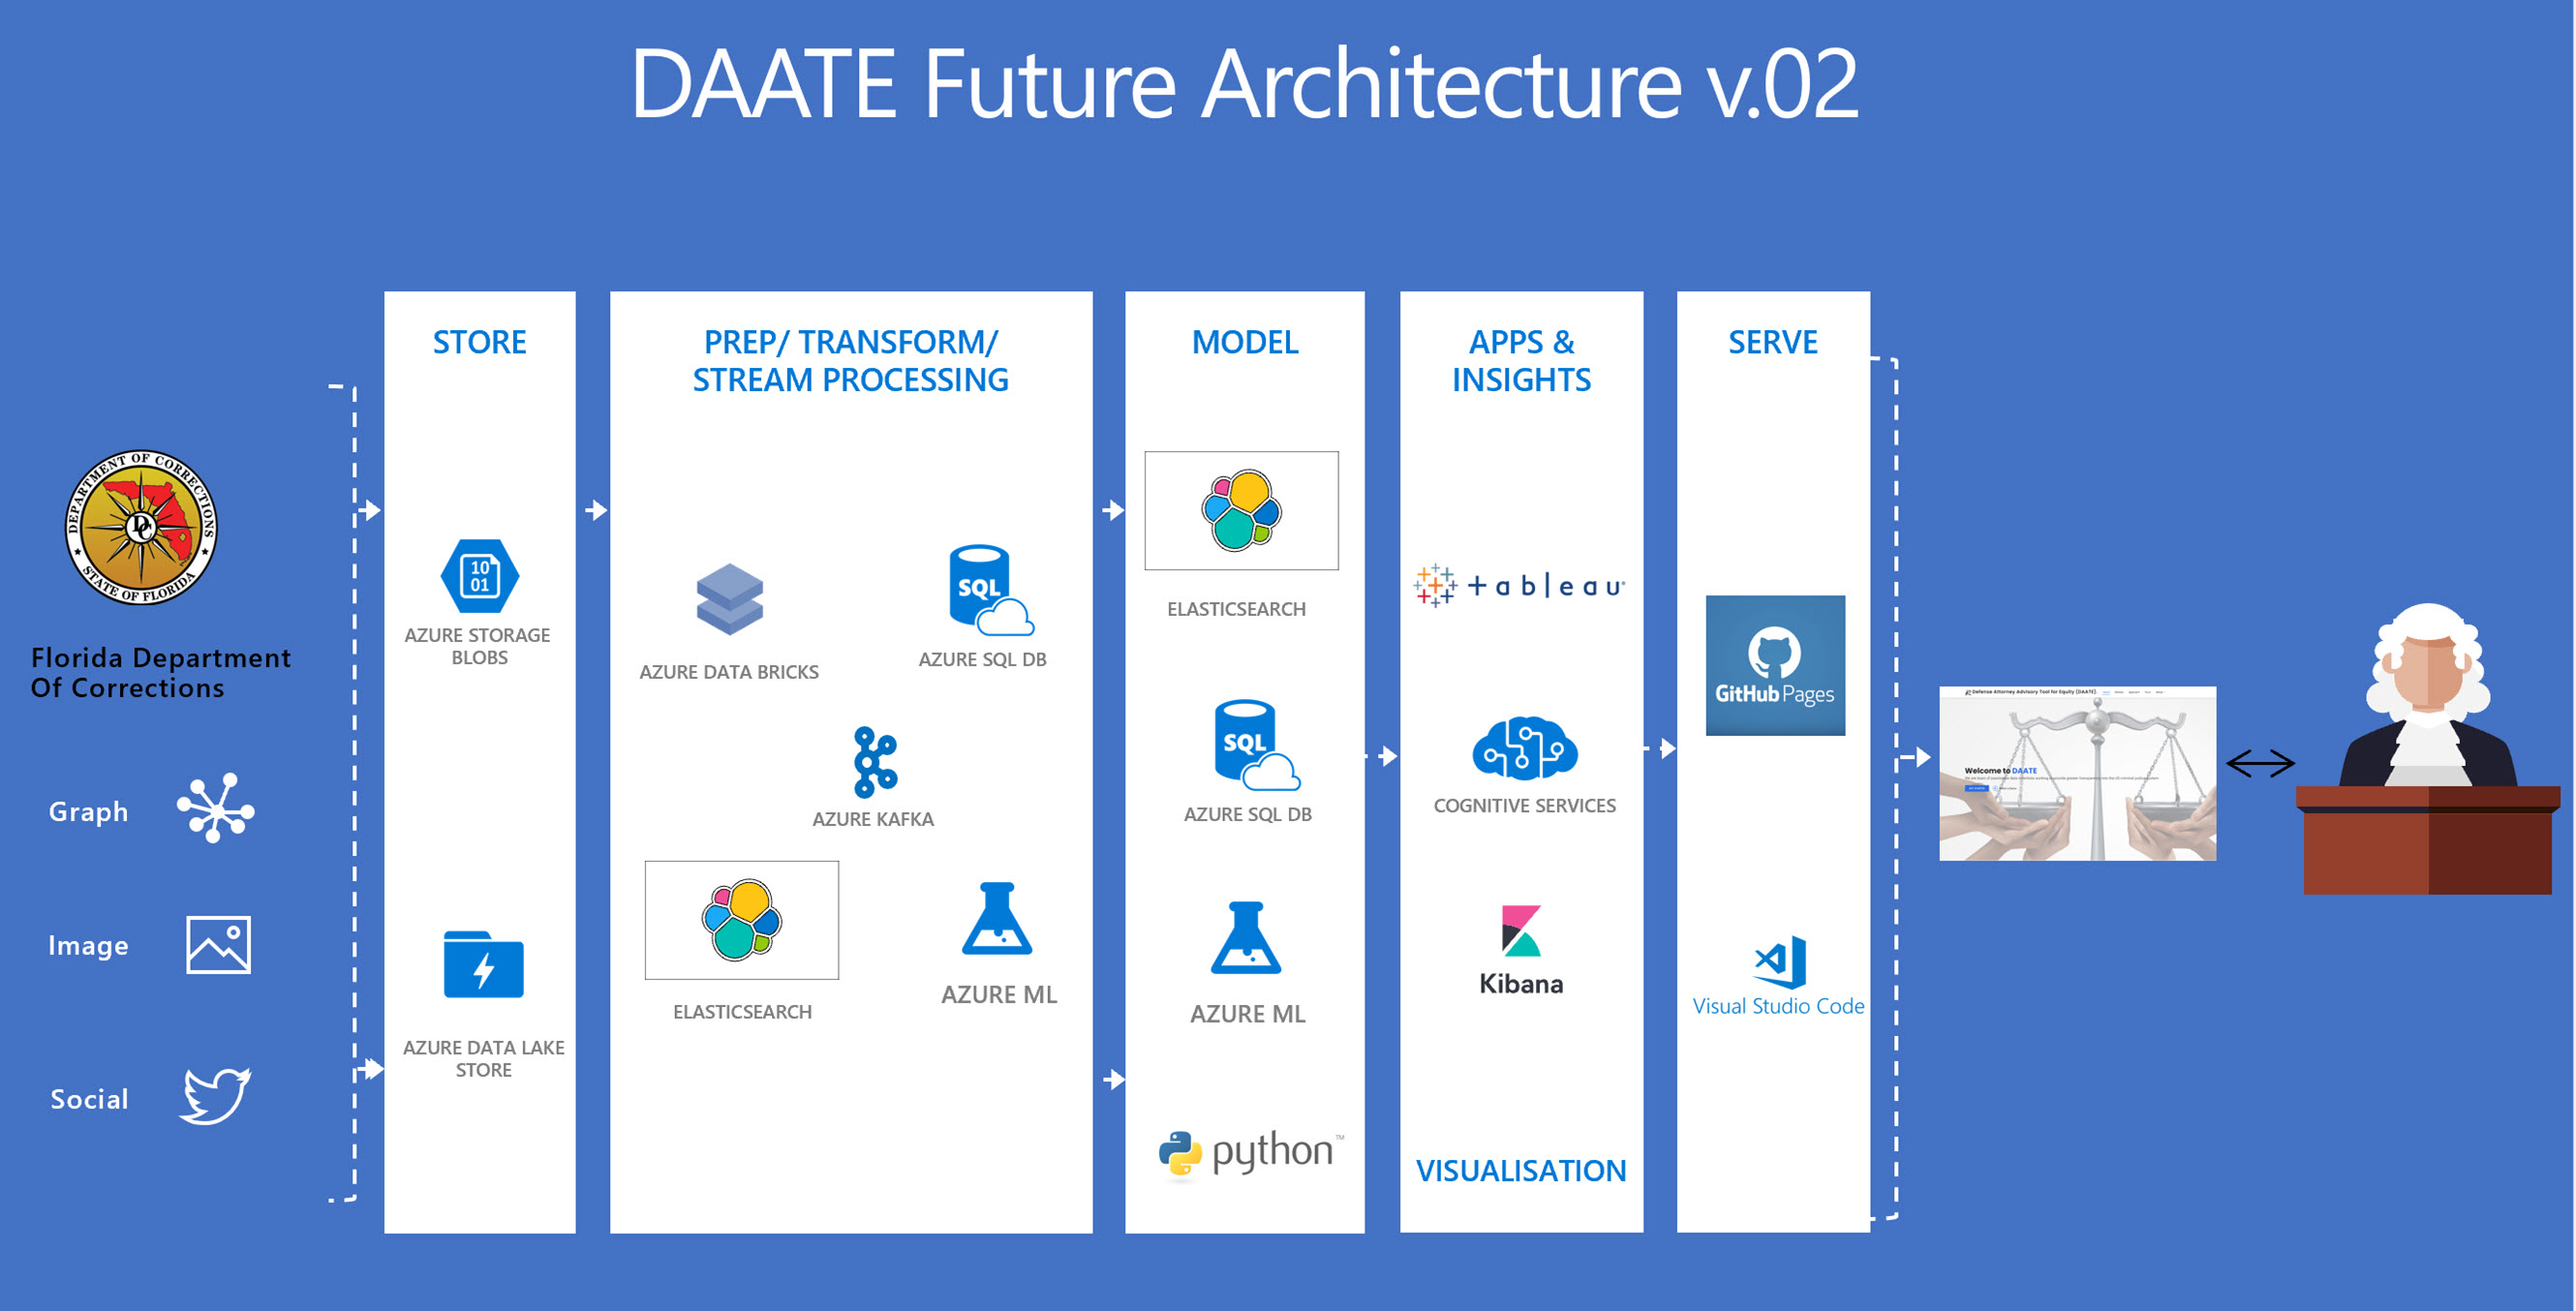
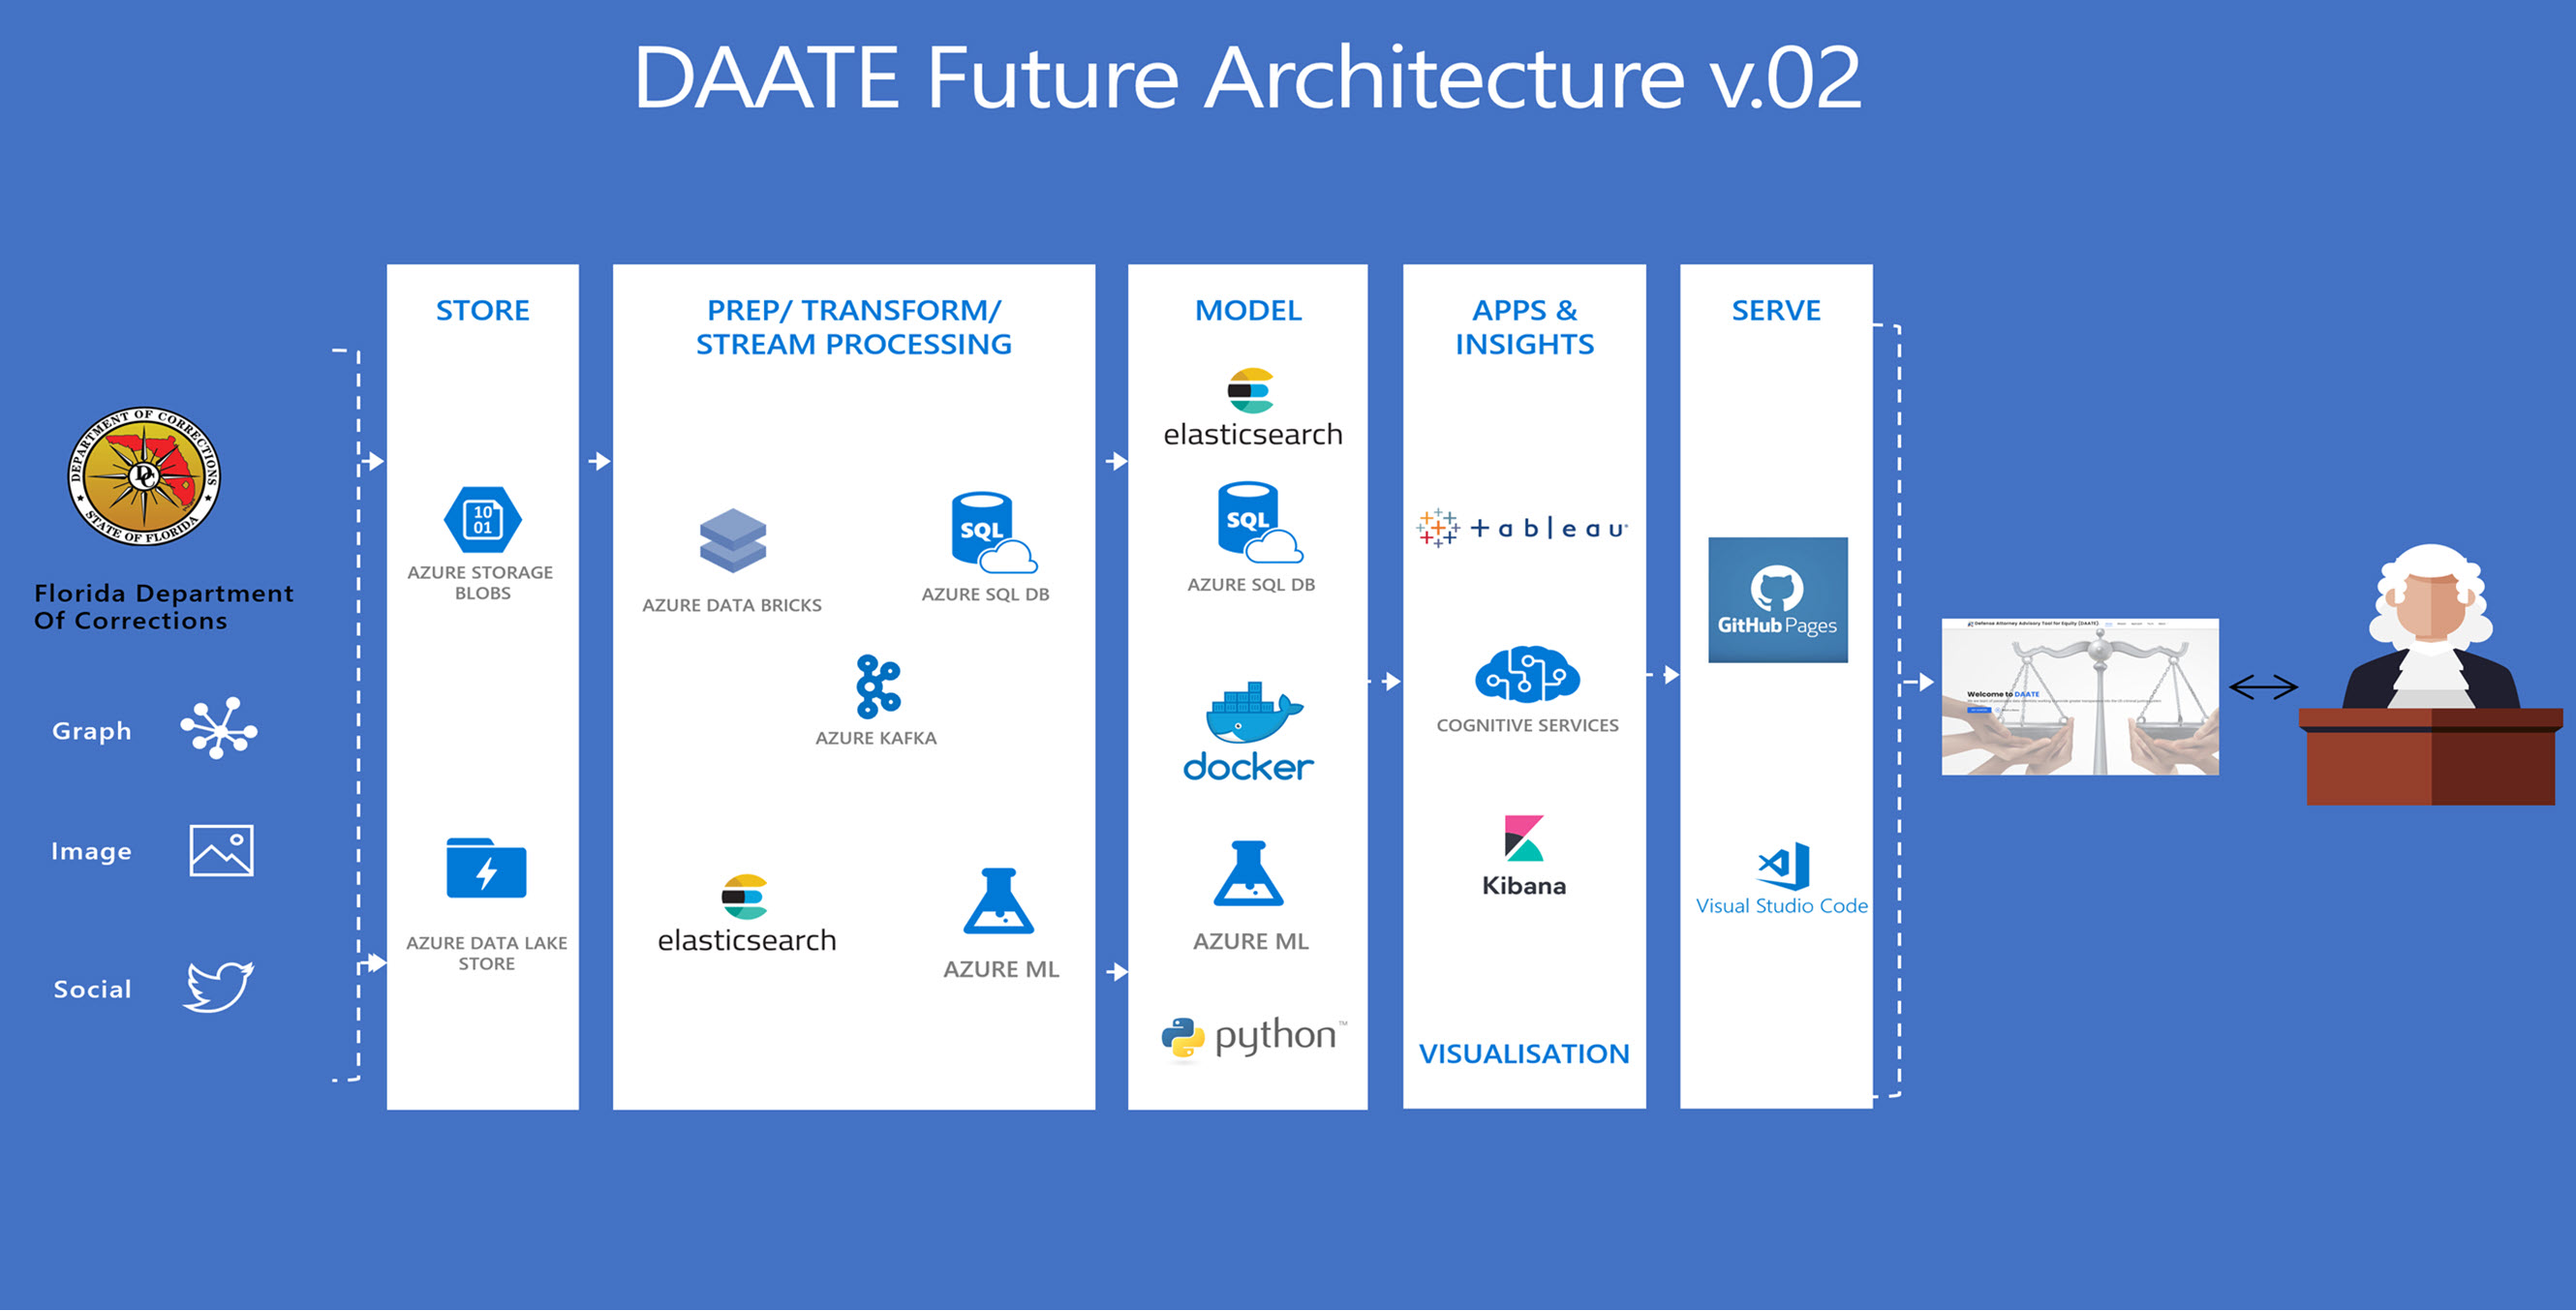
updated images, fixed references

diff --git a/index.html b/index.html
@@ -315,9 +315,9 @@
           <div class="col-lg-4 col-md-6 portfolio-item filter-arch">
             <img src="assets/img/portfolio/MVPArch.jpg" class="img-fluid" alt="">
             <div class="portfolio-info">
-              <h4>DAATE MVP Architecture (v0.01)</h4>
+              <h4>MVP Architecture (v0.01)</h4>
               <p>A highlevel overview of the DAATE MVP architecture. </p>
-              <a href="assets/img/portfolio/MVPArch.jpg" data-gallery="portfolioGallery" class="portfolio-lightbox preview-link" title="Zoom In DAATE Architecture"><i class="bx bx-plus"></i></a>
+              <a href="assets/img/portfolio/MVPArch.jpg" data-gallery="portfolioGallery" class="portfolio-lightbox preview-link" title="DAATE Architecture"><i class="bx bx-plus"></i></a>
               <a href="arch-details.html" class="details-link" title="More Details"><i class="bx bx-link"></i></a>
             </div>
           </div>
@@ -325,9 +325,9 @@
           <div class="col-lg-4 col-md-6 portfolio-item filter-model">
             <img src="assets/img/portfolio/predmodel.jpg" class="img-fluid" alt="">
             <div class="portfolio-info">
-              <h4>Model Architecture</h4>
-              <p>An overview of the DAATE MVP model architecture</p>
-              <a href="assets/img/portfolio/predmodel.jpg" data-gallery="portfolioGallery" class="portfolio-lightbox preview-link" title="Web 3"><i class="bx bx-plus"></i></a>
+              <h4>Predictive Model Architecture</h4>
+              <p>An overview of the DAATE MVP predictive model architecture</p>
+              <a href="assets/img/portfolio/predmodel.jpg" data-gallery="portfolioGallery" class="portfolio-lightbox preview-link" title="Predictive Model Architecture"><i class="bx bx-plus"></i></a>
               <a href="model-details.html" class="details-link" title="More Details"><i class="bx bx-link"></i></a>
             </div>
           </div>
@@ -337,17 +337,18 @@
             <div class="portfolio-info">
               <h4>Data used in DAATE</h4>
               <p>A glimpse at the Florida Department of Corrections data</p>
-              <a href="assets/img/portfolio/DataOverview.jpg" data-gallery="portfolioGallery" class="portfolio-lightbox preview-link" title="App 2"><i class="bx bx-plus"></i></a>
+              <a href="assets/img/portfolio/DataOverview.jpg" data-gallery="portfolioGallery" class="portfolio-lightbox preview-link" title="DAATE MVP Data"><i class="bx bx-plus"></i></a>
               <a href="data-details.html" class="details-link" title="More Details"><i class="bx bx-link"></i></a>
             </div>
           </div>
 
+          
           <div class="col-lg-4 col-md-6 portfolio-item filter-arch">
             <img src="assets/img/portfolio/WebArch.jpg" class="img-fluid" alt="">
             <div class="portfolio-info">
-              <h4>DAATE Future Architecture (v0.02)</h4>
-              <p>A high-level overview of the a potential DAATE future architecture  (v.02).</p>
-              <a href="assets/img/portfolio/WebArch.jpg" data-gallery="portfolioGallery" class="portfolio-lightbox preview-link" title="App 1"><i class="bx bx-plus"></i></a>
+              <h4>MVP Web Site</h4>
+              <p>A glimpse of the DAATE MVP web site.</p>
+              <a href="assets/img/portfolio/WebArch.jpg" data-gallery="portfolioGallery" class="portfolio-lightbox preview-link" title="MVP web site"><i class="bx bx-plus"></i></a>
               <a href="arch-details.html" class="details-link" title="More Details"><i class="bx bx-link"></i></a>
             </div>
           </div>
@@ -356,9 +357,9 @@
           <div class="col-lg-4 col-md-6 portfolio-item filter-data">
             <img src="assets/img/portfolio/DataEDAOutliers.jpg" class="img-fluid" alt="">
             <div class="portfolio-info">
-              <h4>DAATE Data</h4>
+              <h4>EDA Outliers</h4>
               <p>An overview of outliers found in the data</p>
-              <a href="assets/img/portfolio/DataEDAOutliers.jpg" data-gallery="portfolioGallery" class="portfolio-lightbox preview-link" title="Web 2"><i class="bx bx-plus"></i></a>
+              <a href="assets/img/portfolio/DataEDAOutliers.jpg" data-gallery="portfolioGallery" class="portfolio-lightbox preview-link" title="EDA - Outliers"><i class="bx bx-plus"></i></a>
               <a href="data-details.html" class="details-link" title="More Details"><i class="bx bx-link"></i></a>
             </div>
           </div>
@@ -366,9 +367,9 @@
           <div class="col-lg-4 col-md-6 portfolio-item filter-arch">
             <img src="assets/img/portfolio/FutureArch.jpg" class="img-fluid" alt="">
             <div class="portfolio-info">
-              <h4>DAATE Future Architecture</h4>
+              <h4>Future Architecture</h4>
               <p>A glimpse into potential DAATE architecture</p>
-              <a href="assets/img/portfolio/FutureArch.jpg" data-gallery="portfolioGallery" class="portfolio-lightbox preview-link" title="App 3"><i class="bx bx-plus"></i></a>
+              <a href="assets/img/portfolio/FutureArch.jpg" data-gallery="portfolioGallery" class="portfolio-lightbox preview-link" title="DAATE Future Architecture"><i class="bx bx-plus"></i></a>
               <a href="arch-details.html" class="details-link" title="More Details"><i class="bx bx-link"></i></a>
             </div>
           </div>
@@ -376,9 +377,9 @@
           <div class="col-lg-4 col-md-6 portfolio-item filter-data">
             <img src="assets/img/portfolio/DataEDATotalPoints.jpg" class="img-fluid" alt="">
             <div class="portfolio-info">
-              <h4>DAATE Data</h4>
+              <h4>Data</h4>
               <p>A look at how total points relates to time behind bars</p>
-              <a href="assets/img/portfolio/DataEDATotalPoints.jpg" data-gallery="portfolioGallery" class="portfolio-lightbox preview-link" title="Card 3"><i class="bx bx-plus"></i></a>
+              <a href="assets/img/portfolio/DataEDATotalPoints.jpg" data-gallery="portfolioGallery" class="portfolio-lightbox preview-link" title="EDA - Total Points"><i class="bx bx-plus"></i></a>
               <a href="data-details.html" class="details-link" title="More Details"><i class="bx bx-link"></i></a>
             </div>
           </div>
@@ -386,9 +387,9 @@
           <div class="col-lg-4 col-md-6 portfolio-item filter-model">
             <img src="assets/img/portfolio/causalmod.jpg" class="img-fluid" alt="">
             <div class="portfolio-info">
-              <h4>DAATE MVP Causal Model</h4>
+              <h4>Causal Model Architecture</h4>
               <p>A look at the causal model approach for DAATE MVP</p>
-              <a href="assets/img/portfolio/causalmod.jpg" data-gallery="portfolioGallery" class="portfolio-lightbox preview-link" title="Card 1"><i class="bx bx-plus"></i></a>
+              <a href="assets/img/portfolio/causalmod.jpg" data-gallery="portfolioGallery" class="portfolio-lightbox preview-link" title="Causal Model Architecture"><i class="bx bx-plus"></i></a>
               <a href="model-details.html" class="details-link" title="More Details"><i class="bx bx-link"></i></a>
             </div>
           </div>
@@ -414,11 +415,11 @@
           </div>
 
           <div class="col-lg-4 col-md-6 portfolio-item filter-model">
-            <img src="assets/img/portfolio/portfolio-9.jpg" class="img-fluid" alt="">
+            <img src="assets/img/portfolio/bdde_model.jpg" class="img-fluid" alt="">
             <div class="portfolio-info">
-              <h4>Challenges</h4>
+              <h4>BDDE Model Architecture</h4>
               <p>Some of the challenges the team faced while developing the DAATE MVP</p>
-              <a href="assets/img/portfolio/portfolio-9.jpg" data-gallery="portfolioGallery" class="portfolio-lightbox preview-link" title="Web 3"><i class="bx bx-plus"></i></a>
+              <a href="assets/img/portfolio/bdde_model.jpg" data-gallery="portfolioGallery" class="portfolio-lightbox preview-link" title="BDDE Model Architecture"><i class="bx bx-plus"></i></a>
               <a href="results-details.html" class="details-link" title="More Details"><i class="bx bx-link"></i></a>
             </div>
           </div>

diff --git a/model-details.html b/model-details.html
@@ -127,9 +127,9 @@
                 </div>
 
                 <div class="swiper-slide">
-                  <img src="assets/img/portfolio/portfolio-details-3.jpg" alt="">
+                  <img src="assets/img/portfolio/bdde_model.jpg" alt="">
                   <div class="portfolio-info">
-                    <a href="assets/img/portfolio/portfolio-details-3.jpg" data-gallery="portfolioGallery" class="portfolio-lightbox preview-link" title="DAATE BDDE Model Architecture"><i class="bx bx-plus"></i>Zoom In</a>
+                    <a href="assets/img/portfolio/bdde_model.jpg" data-gallery="portfolioGallery" class="portfolio-lightbox preview-link" title="DAATE BDDE Model Architecture"><i class="bx bx-plus"></i>Zoom In</a>
                   </div>
                 </div>
               </div>
